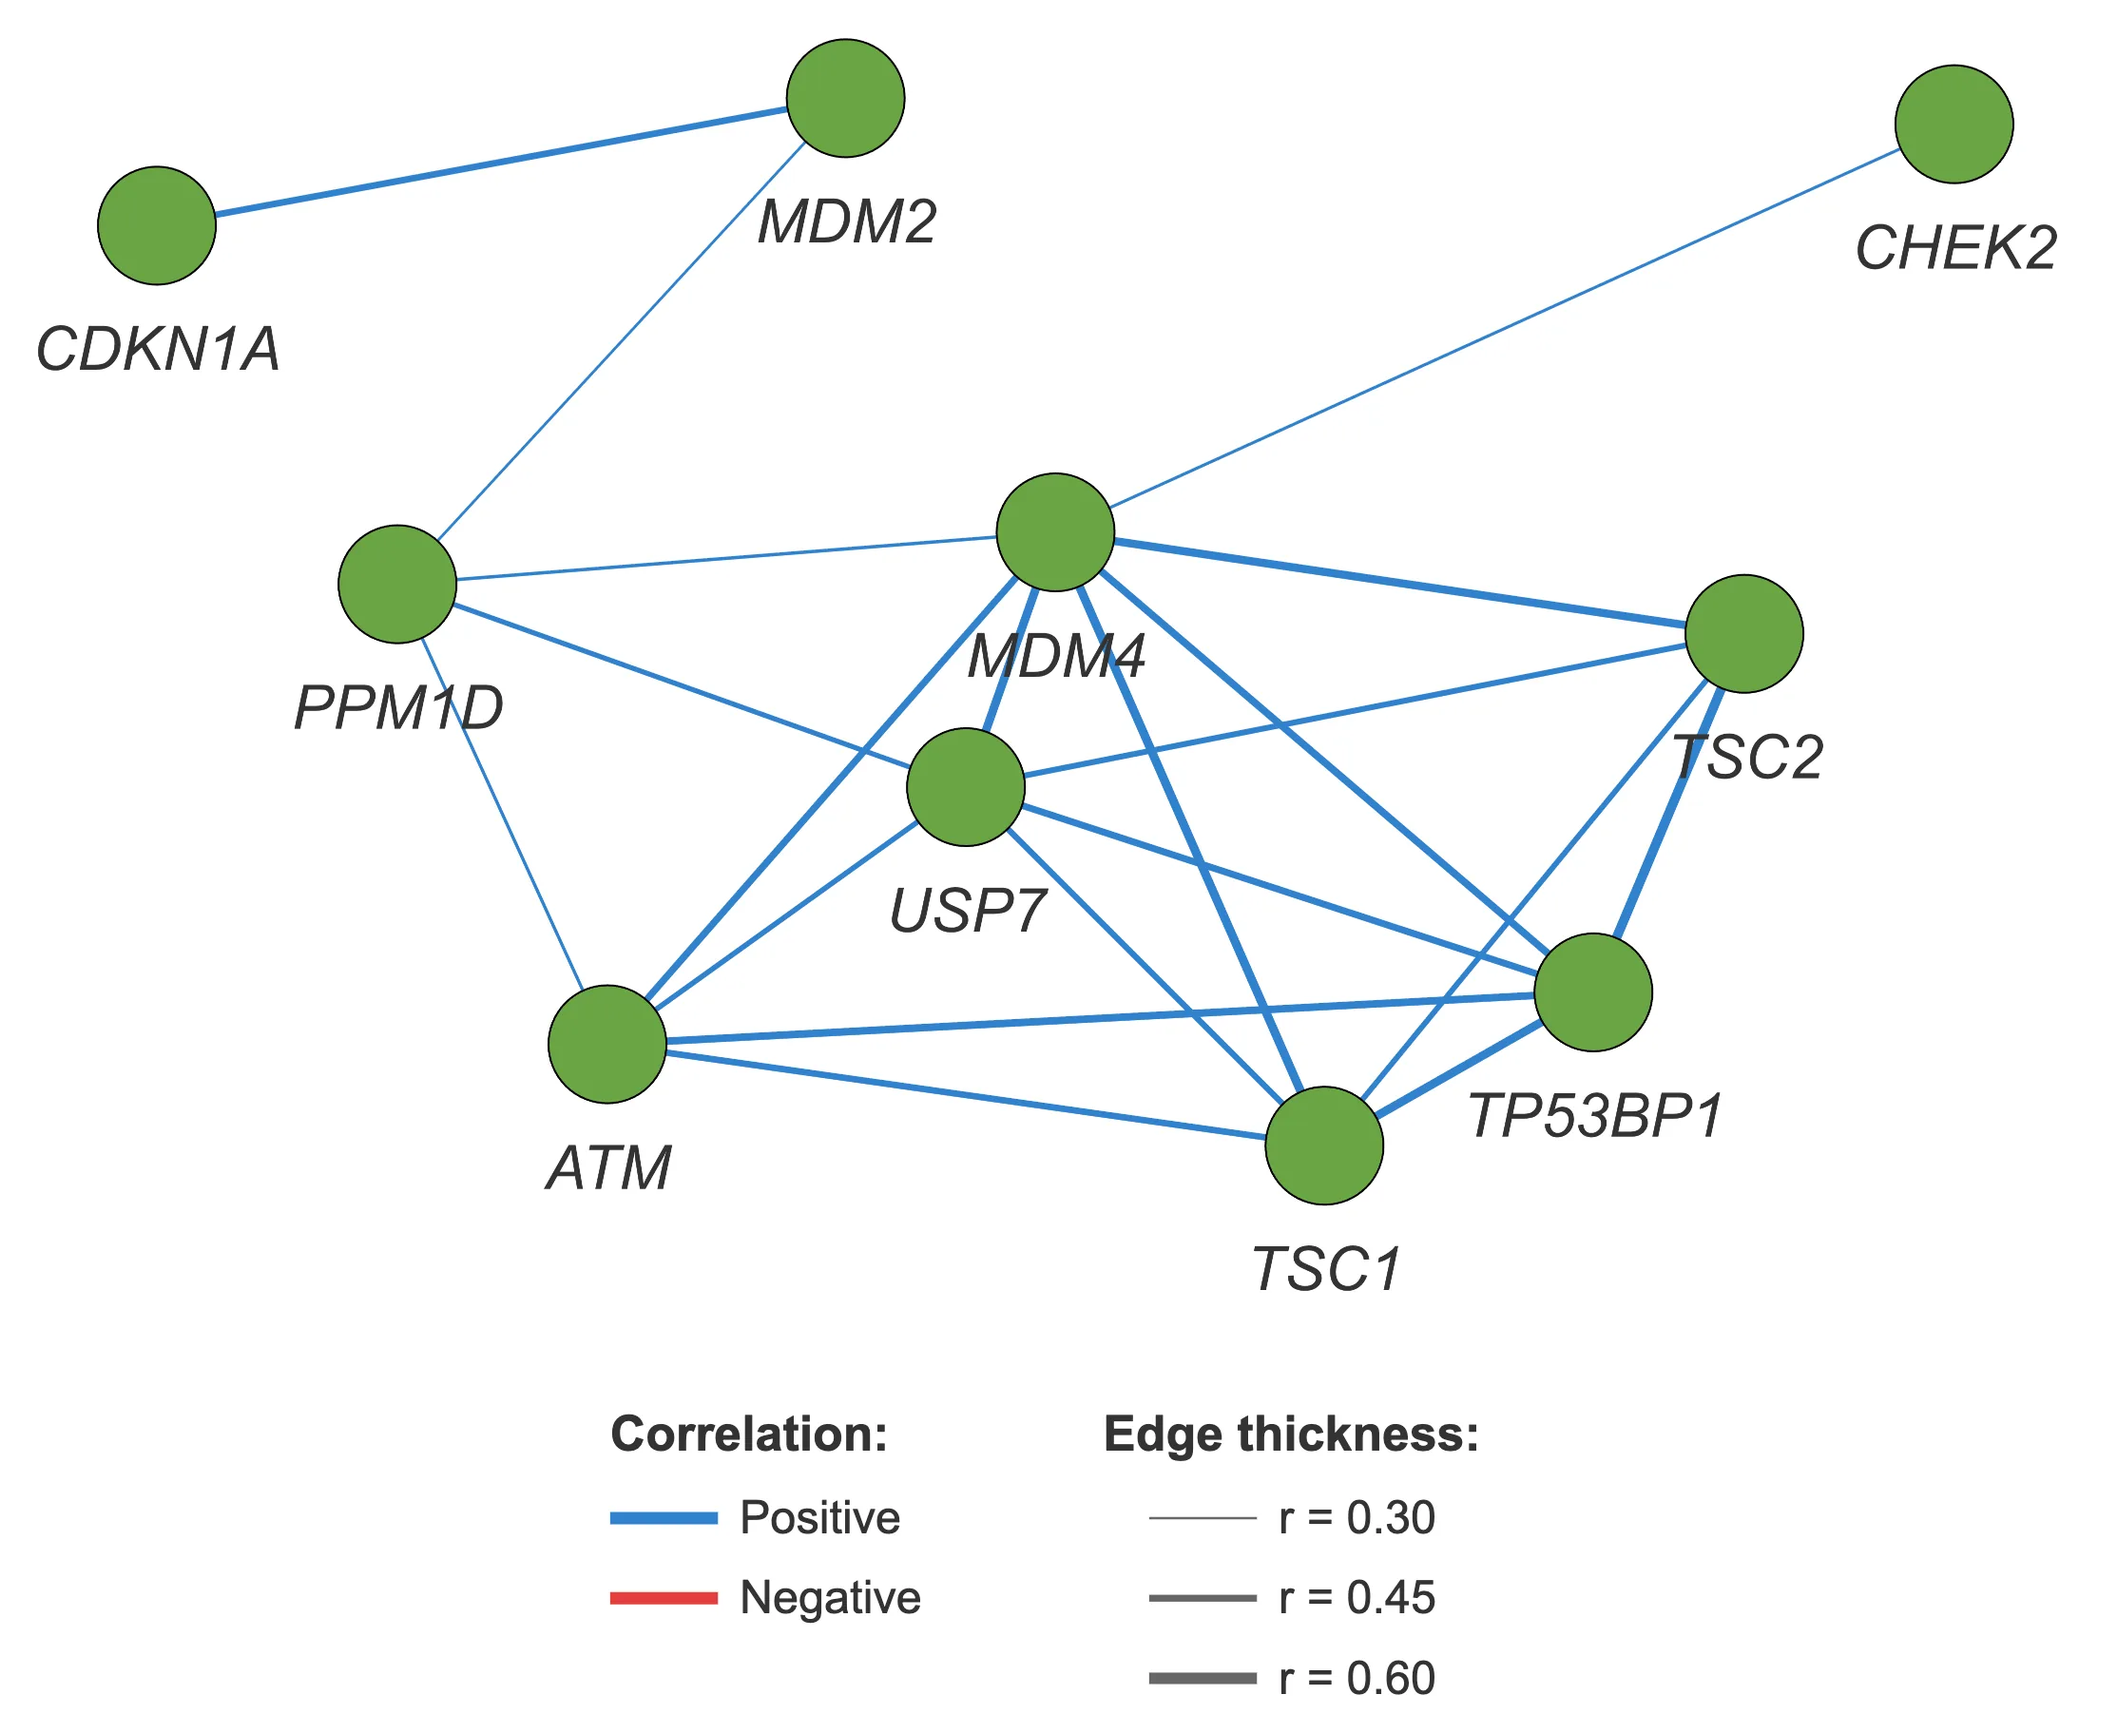
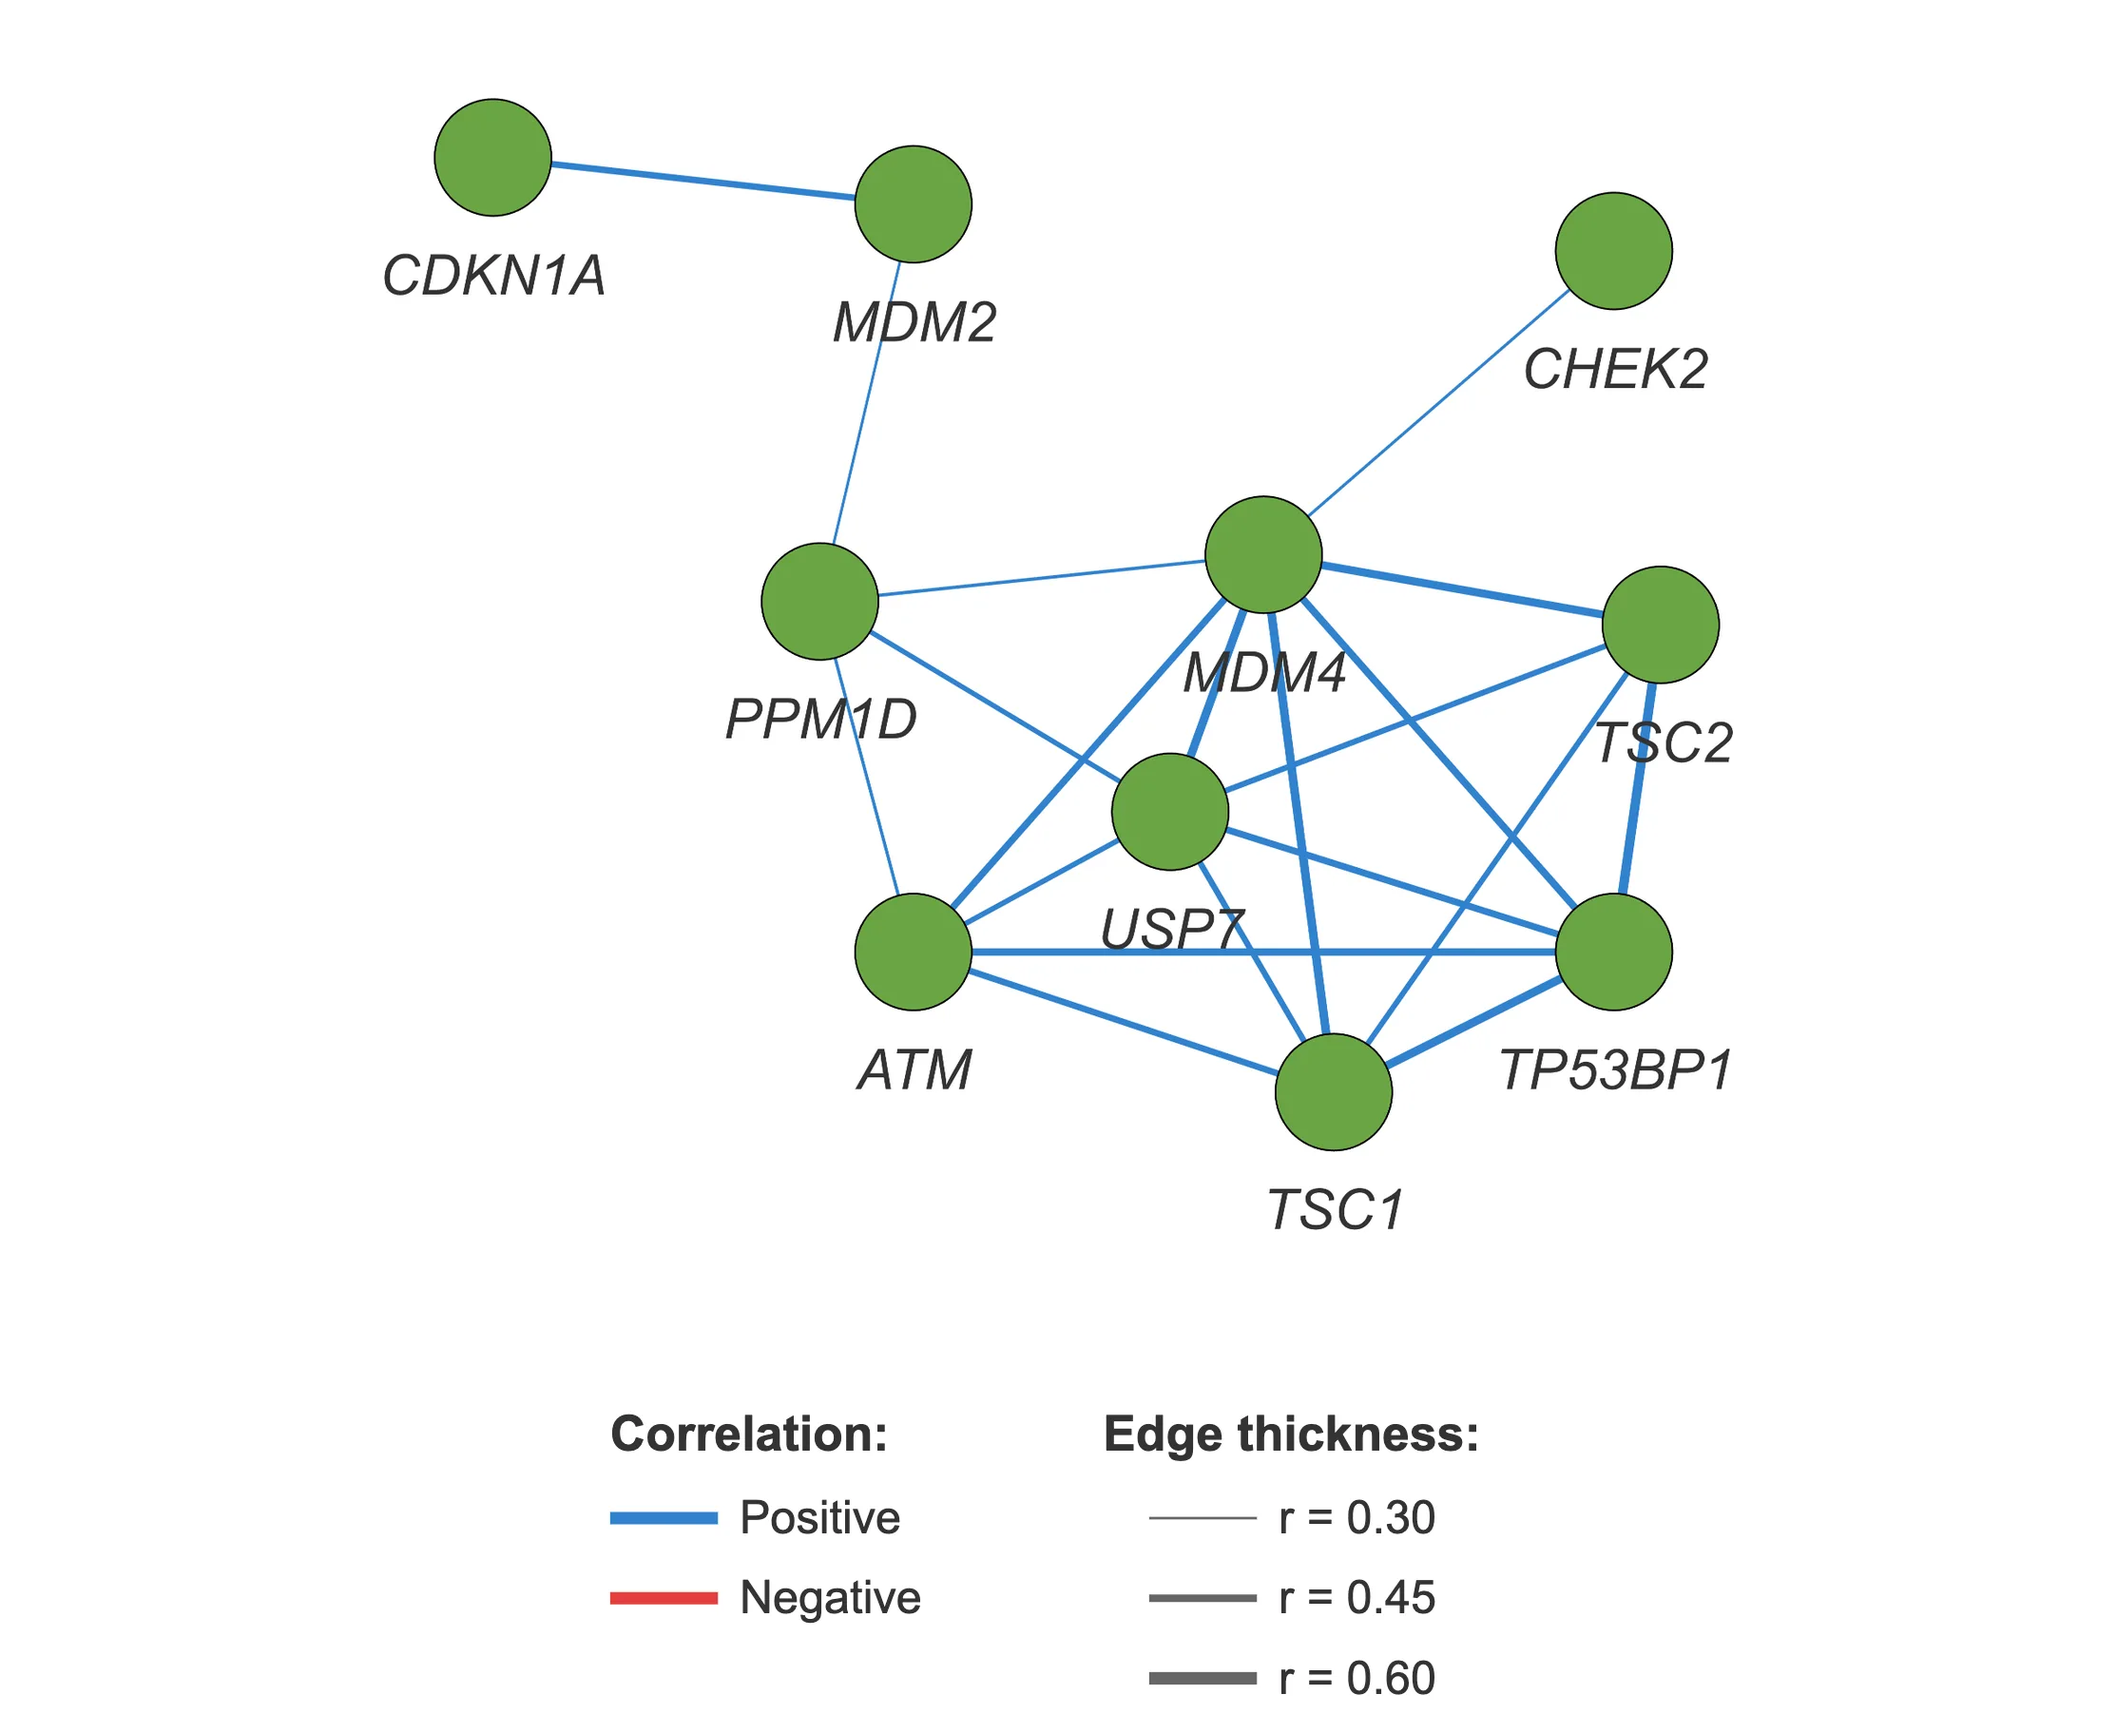
v.91.51: tour: compact, evenly spaced mRNA network at the matching node size
Claude-Session: https://claude.ai/code/session_01GrRsah6zkLaafT5s7nhzFW

diff --git a/index.html b/index.html
@@ -3017,6 +3017,10 @@
                 <button onclick="this.closest('#changelogModal').style.display='none'" style="background:none;border:none;font-size:20px;cursor:pointer;">&times;</button>
             </div>
             <div style="font-size:12px; line-height:1.6; color:#374151;">
+                <p><strong>v.91.51 (2026-10-25)</strong></p>
+                <ul>
+                    <li>Tour of the app: the mRNA network example has a compact, evenly spaced layout (no gene pulled far out), at the same node size as the screen-results network, with the legends still aligned.</li>
+                </ul>
                 <p><strong>v.91.50 (2026-10-25)</strong></p>
                 <ul>
                     <li>Gene Browser, sequence viewer: the start codon (dark green) and the stop codon (red) are bold and underlined in the genomic, mRNA and coding views, with both in the legend; a codon split across an exon boundary is marked whole.</li>
@@ -8855,7 +8859,7 @@
             </span>
             <!-- Positioned off the row's right end (see #versionBadge CSS), so
                  it sits next to YouTube without moving the centered links. -->
-            <a href="#" id="versionBadge" onclick="event.preventDefault();document.getElementById('changelogModal').style.display='flex'" style="font-family:monospace; font-size:11px; background:#f3f4f6; padding:2px 8px; border-radius:10px; color:#6b7280; border:1px solid #d1d5db; font-weight:400;">v.91.50</a>
+            <a href="#" id="versionBadge" onclick="event.preventDefault();document.getElementById('changelogModal').style.display='flex'" style="font-family:monospace; font-size:11px; background:#f3f4f6; padding:2px 8px; border-radius:10px; color:#6b7280; border:1px solid #d1d5db; font-weight:400;">v.91.51</a>
         </span>
     </div>
 
@@ -12234,6 +12238,6 @@
     </div>
 
     <script src="app.js?v=v91_50"></script>
-    <script src="tour.js?v=v91_49"></script>
+    <script src="tour.js?v=v91_51"></script>
 </body>
 </html>
